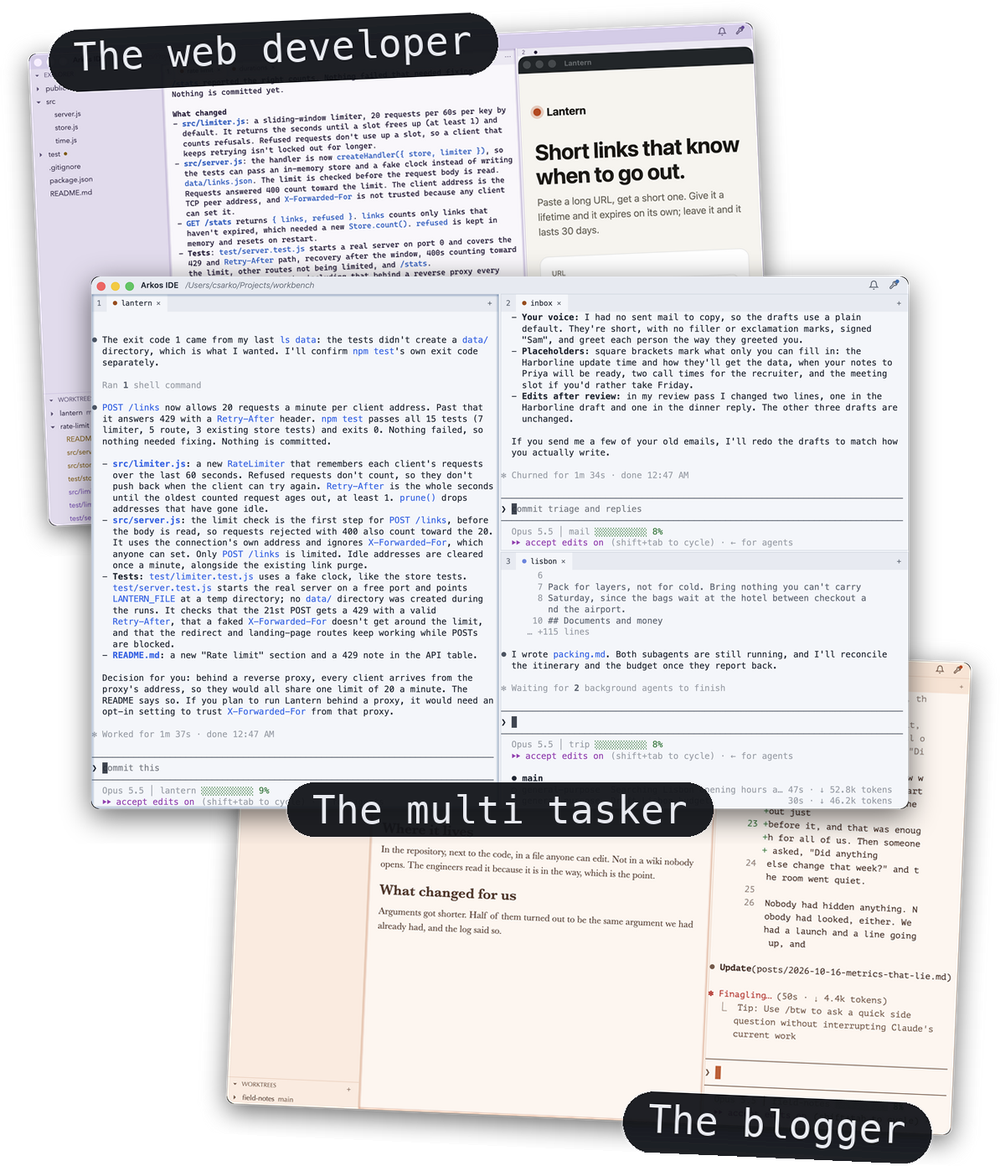
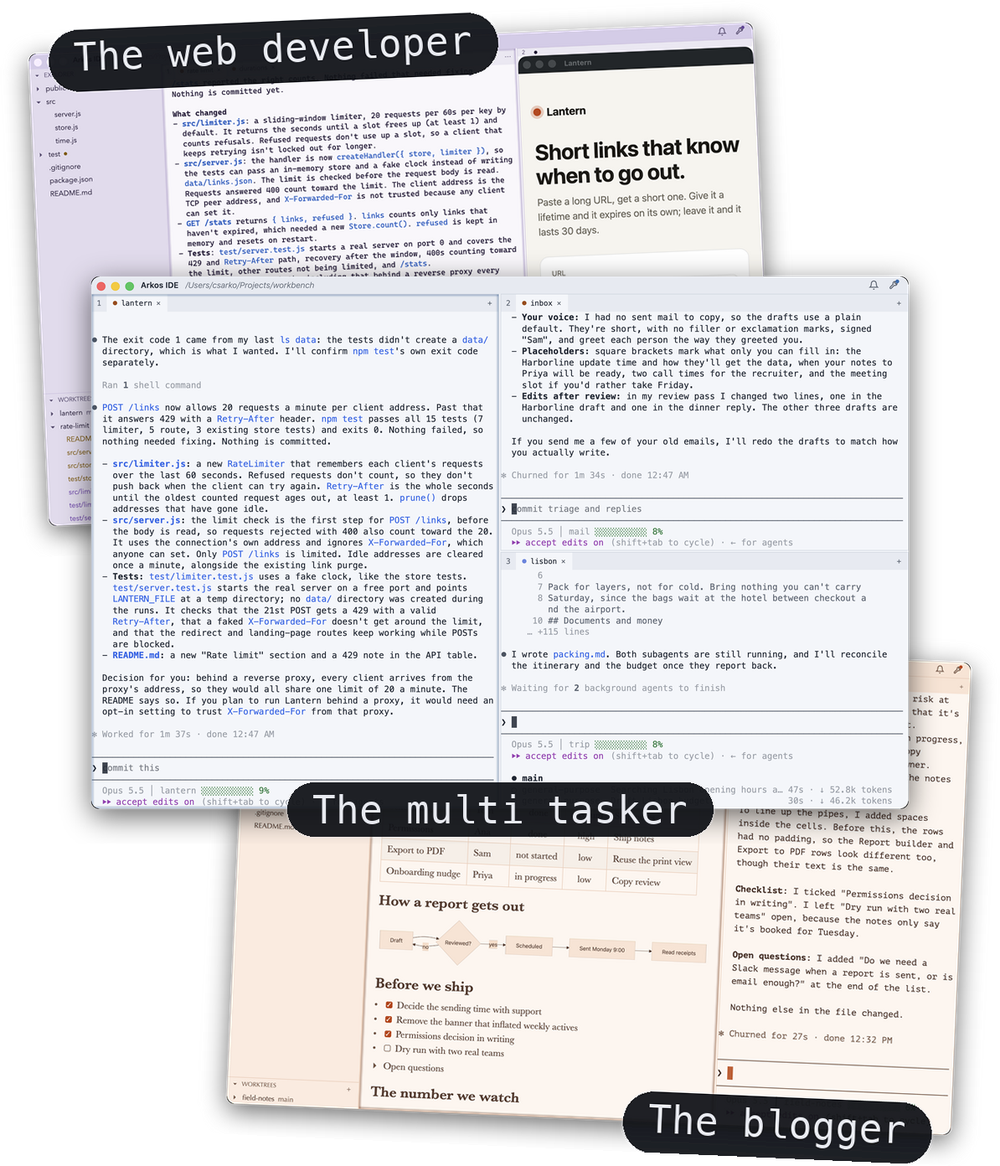
The Blogger reshot on Tier B: a launch plan with a grid, a diagram, a checklist and open questions
The fixture gains a product person's launch plan (a status table, a Mermaid
flow, a checklist, a details section, a chart, a snippet) and a review note;
the story's session brings the plan up to date from the note. The stills and
the heroes are recomposed from them.

Claude-Session: https://claude.ai/code/session_015xrVD54zbvkgksJUndxfpr

Changed region(s): [[0.372, 0.5866, 0.961, 0.9571], [0.248, 0.6792, 0.279, 0.7101]]

diff --git a/scripts/shoot/demo/blog/posts/2026-10-16-launch-plan.md b/scripts/shoot/demo/blog/posts/2026-10-16-launch-plan.md
@@ -1,0 +1,50 @@
+# Launch plan
+
+One page anyone can read in a minute. The table is the plan; the rest is why.
+
+## Where we stand
+
+| Workstream | Owner | Status | Risk | Next step |
+|:-----------|:------|:------:|:----:|:----------|
+| Report builder | Priya | done | low | Ship notes |
+| Scheduling | Tom | in review | medium | One send a week |
+| Permissions | Ana | in progress | high | Decide external sharing |
+| Export to PDF | Sam | not started | low | Reuse the print view |
+| Onboarding nudge | Priya | blocked | high | After permissions |
+
+## How a report gets out
+
+```mermaid
+flowchart LR
+  A[Draft] --> B{Reviewed?}
+  B -- no --> A
+  B -- yes --> C[Scheduled]
+  C --> D[Sent Monday 9:00]
+  D --> E[Read receipts]
+```
+
+## Before we ship
+
+- [x] Decide the sending time with support
+- [x] Remove the banner that inflated weekly actives
+- [ ] Permissions decision in writing
+- [ ] Dry run with two real teams
+
+<details>
+<summary>Open questions</summary>
+
+- Do we send on public holidays, or the next working day?
+- Who owns the report when its author leaves the team?
+- Is a PDF export a launch item or a week-two item?
+
+</details>
+
+## The number we watch
+
+![Teams that ran the weekly report two weeks in a row](images/report-runs.png)
+
+Boring, and climbing. The `report_runs` event is one line in the tracker:
+
+```js
+track("report_runs", { team, week, streak });
+```

diff --git a/scripts/shoot/demo/blog/notes/launch-review.md b/scripts/shoot/demo/blog/notes/launch-review.md
@@ -1,0 +1,8 @@
+# Launch review, Thursday
+
+- scheduling is through review; Tom merged it this morning, so the row moves to done and its next step is "Ship notes"
+- Ana got the permissions decision: sharing outside the team is off at launch, so the row
+  moves to done with next step "Ship notes", and the onboarding nudge is unblocked (in progress, Priya, risk low, next step "Copy review")
+- the "permissions decision in writing" item is done; the dry run is booked for Tuesday
+- add an open question: do we need a Slack message when a report is sent, or is email enough
+- the PDF export stays not started; nobody asked for it this week
